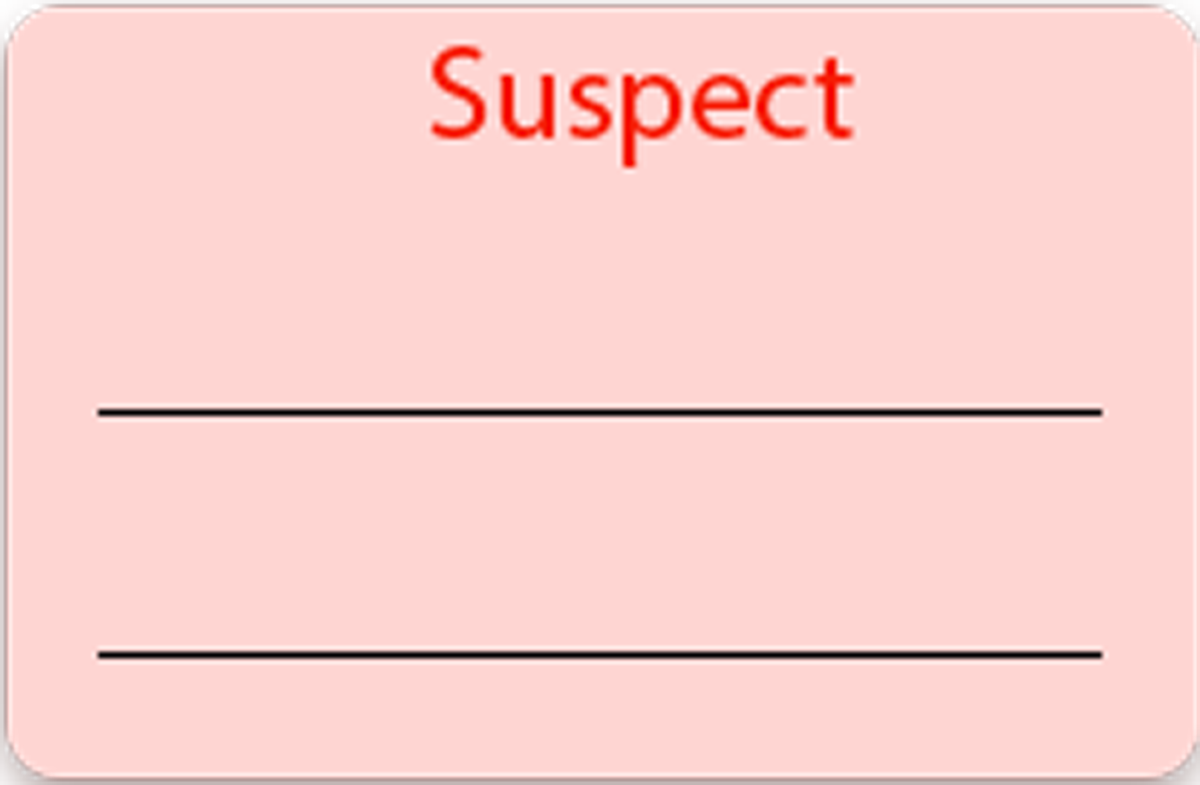
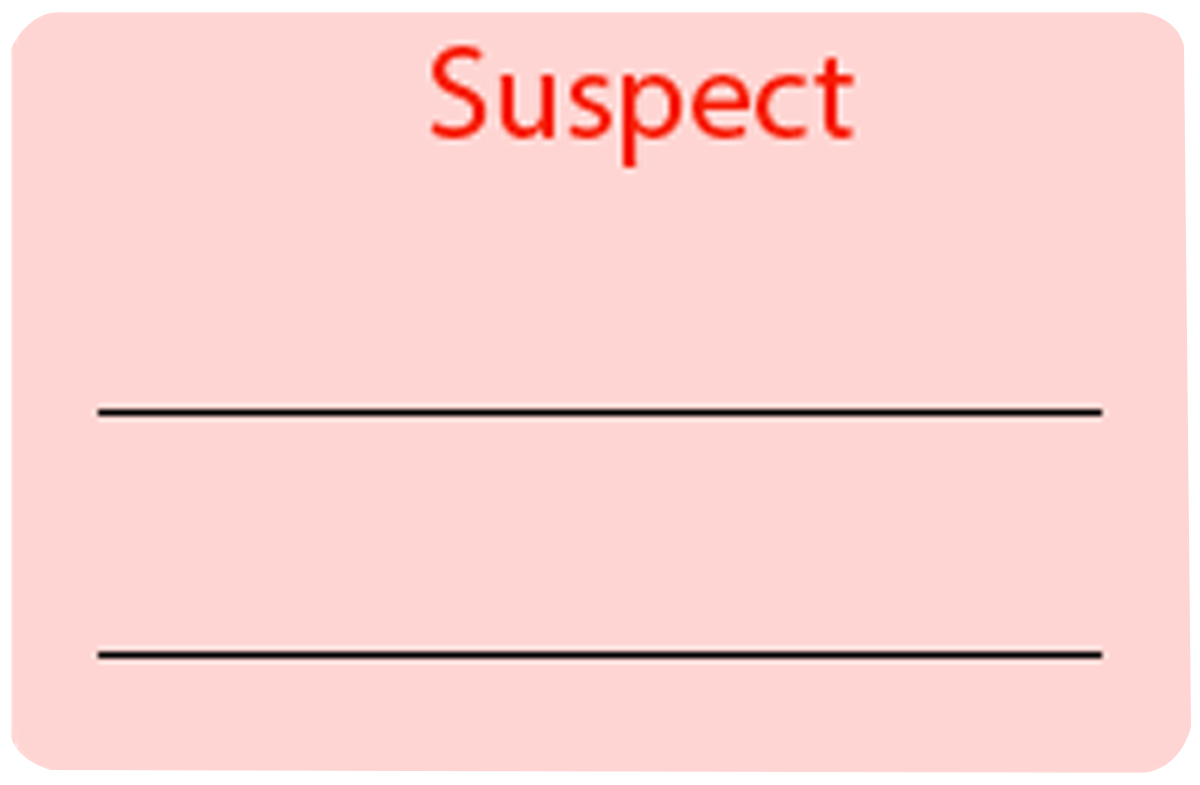
note picture fixed

Changed region(s): [[0.0, 0.0, 1.0, 1.0]]

diff --git a/src/CSS/Suspect.css b/src/CSS/Suspect.css
@@ -1,4 +1,5 @@
 .pane {
 	-fx-background-image: url("../res/images/Suspect.png");
+	-fx-background-repeat: no-repeat;
 	-fx-background-size: 200, 200;	
 }

diff --git a/src/CSS/Victim.css b/src/CSS/Victim.css
@@ -1,4 +1,5 @@
 .pane {
 	-fx-background-image: url("../res/images/Victim.png");
+	-fx-background-repeat: no-repeat;
 	-fx-background-size: 200, 200;	
 }
